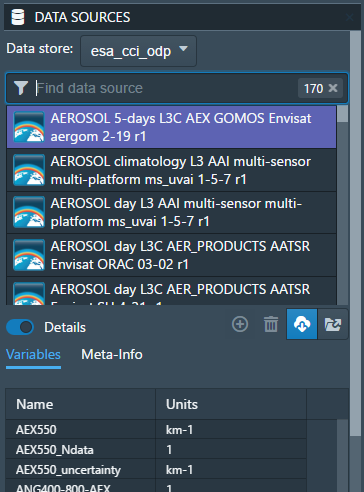
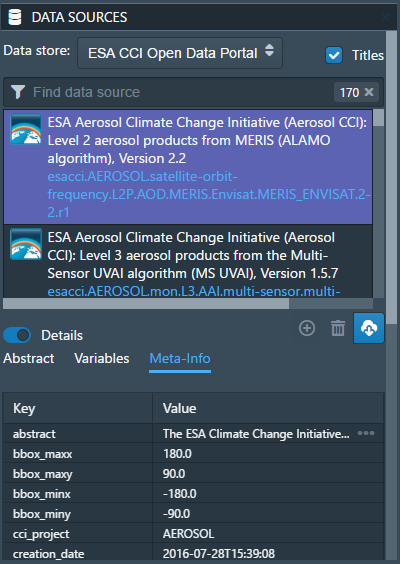
updates

diff --git a/doc/source/user_manual/um_gui.rst b/doc/source/user_manual/um_gui.rst
@@ -134,8 +134,8 @@ The **DATA SOURCES** panel is used to browse, download and open both local and r
 *data stores*.
 
 Using the drop-down list located at the top of the panel, it is possible to switch between the the currently
-available data stores. At the time of writing, two data stores were available in Cate, ``esa_cci_odp`` the remote
-ESA Open Data Portal, and ``local`` representing data sources made available on your local computer.
+available data stores. At the time of writing, two data stores were available in Cate, the remote
+*ESA Open Data Portal*, and *Local Data Sources* representing datasets made available through your file system.
 Below data stores selector, there is a search field, while typing, the list of data sources published through
 the selected data store is narrowed down. Selecting a data source entry will allow displaying its **Details**,
 namely the available (geo-physical) variables and the meta-data associated with the data source.
@@ -144,7 +144,7 @@ In order to start working with remote data from the ``esa_cci_odp`` data store, 
 explained in the following:
 
 1. Download the complete remote dataset or a subset and make it a new *local* data source available from the
-   ``local`` data store. Open the dataset from the new local data source. **This is currently the recommended way
+   local data store. Open the dataset from the new local data source. **This is currently the recommended way
    to access remote data** as local data stores ensure sufficient I/O performance and are not bound to your internet
    connection and remote service availability.
 2. Open the remote dataset without creating a local data copy. **This option should only be used for small subsets
@@ -166,7 +166,7 @@ in :ref:`gui_dialog_download_dataset` to use the first option.
 
 Here you can specify a number of optional constraints to create a local data source that is a subset of the original
 remote one. You can also provide a name for the new data source. By default, the original name will be used, prefixed
-by "local".
+by ``local.``.
 
 .. note::
    We strongly recommend to set the constraints to limit the overall amount of data to be downloaded
@@ -181,7 +181,7 @@ by "local".
 
 After confirming the dialog, a download task will be started, which can be observed in the **TASKS** panel.
 Once the download is finished, a notification will be displayed and a new local data source will be available for the
-``local`` data store.
+``local data store.
 
 To choose the second option described above, press the **Open** button to open the **Open Remote Dataset** dialog shown
 in :ref:`gui_dialog_open_remote_dataset`.
@@ -204,9 +204,9 @@ a new dataset *resource* is available from the :ref:`workspace_panel`.
    :scale: 100 %
    :align: left
 
-   DATA SOURCE panel for ``local``
+   Data Sources panel for ``local``
 
-Switching the data store selector to ``local`` lists all currently available local data sources as shown in
+Switching the data store selector to *Local Data Sources* lists all currently available local data sources as shown in
 :ref:`gui_panel_data_sources_local`. These are the ones downloaded from remote sources, or ones that you can
 create from local data files.
 
@@ -330,12 +330,39 @@ in the Cate context includes functions that
 LAYERS Panel
 ------------
 
+This panel manages the list of visual layers displayed by the currently active 2D map or 3D world view.
+Any number of layers can be added to active view. Two are always available:
+
+* Selected Variable
+* Country Borders
+
+The layer *Selected Variable* displays the data of any selected variable in the **VARIABLES** panel
+if it is gridded and has at least the longitude and latitude dimensions (names ``lon`` and ``lat``).
+The toolbar to the lower right of the layer list offers the following functions (in order):
+
+* Add a new layer (currently you can add layers for other variables available in your workspace)
+* Remove the selected layer
+* Move selected layer up to render it on top of others
+* Move selected layer down so other layers are rendered on top of it
+
+The **Details** of the **LAYERS** panel lists various layer settings. The vailable settings depend on the type
+of the selected layer. For image layers originating from a variable they are for example:
+
+* *Display Range* is the value range to which a given colour map is mapped.
+* *Colour bar* is applied to gridded variables.
+* *Alpha Blending* is used to mask/fade out the lower half of the display range.
+  With *Alpha Blending* switched on, the minimum value of the display range corresponds to full transparency while
+  opacity increases until half of the display range is reached.
+* For any extra dimension of a variable that is not latitude and longitude, an *Index into <Dimension>* slider is
+  displayed and can be used to selected the dimension's index to be displayed as layer.
+* The *Opacity* controls the opacity of the selected layer
+* Various *Image Enhancement* settings, like *Brightness*, * Contrast*, *Hue*.
+
 .. figure:: ../_static/figures/user_manual/gui_panel_layers.png
    :scale: 100 %
    :align: center
 
    Layers Panel
-
 
 
 .. _placemarks_panel:
@@ -344,6 +371,18 @@ LAYERS Panel
 PLACEMARKS Panel
 ----------------
 
+This panel manages a list of placemarks - points that have a name and a geographical coordinate.
+Placemarks can be used to create time series plots and to extract data at a given point. The toolbar
+to the lower right of the list of placemarks offers the following functions (in order):
+
+* Click a point on the 3D globe view to add a new placemark
+* Add a new placemark
+* Remove a selected placemark
+* Copy name and/or coordinates of selected placemark to clipboard
+
+In the **Details** of the **PLACEMARKS** panel you can change the selected placemark's name and coordinates.
+Coordinates are given as longitude/latitude pair.
+
 .. figure:: ../_static/figures/user_manual/gui_panel_placemarks.png
    :scale: 100 %
    :align: center
@@ -351,14 +390,16 @@ PLACEMARKS Panel
    Placemarks Panel
 
 
+The list of placemarks is currently stored as a GeoJSON entry in ``.cate/preferences.json`` in the users home directory
+and restored for every Cate Desktop session.
 
 .. _views_panel:
 
------------
-VIEWS Panel
------------
+----------
+VIEW Panel
+----------
 
-The **VIEWS** panel shows the settings of the currently active *View*. The settings depend non the type of the active
+The **VIEW** panel shows the settings of the currently active *View*. The settings depend non the type of the active
 view.
 
 *World Views* have the following settings:
@@ -378,7 +419,7 @@ the subset of the data ypou want to see in the table.
    :scale: 100 %
    :align: center
 
-   Views Panel
+   View Panel
 
 
 
